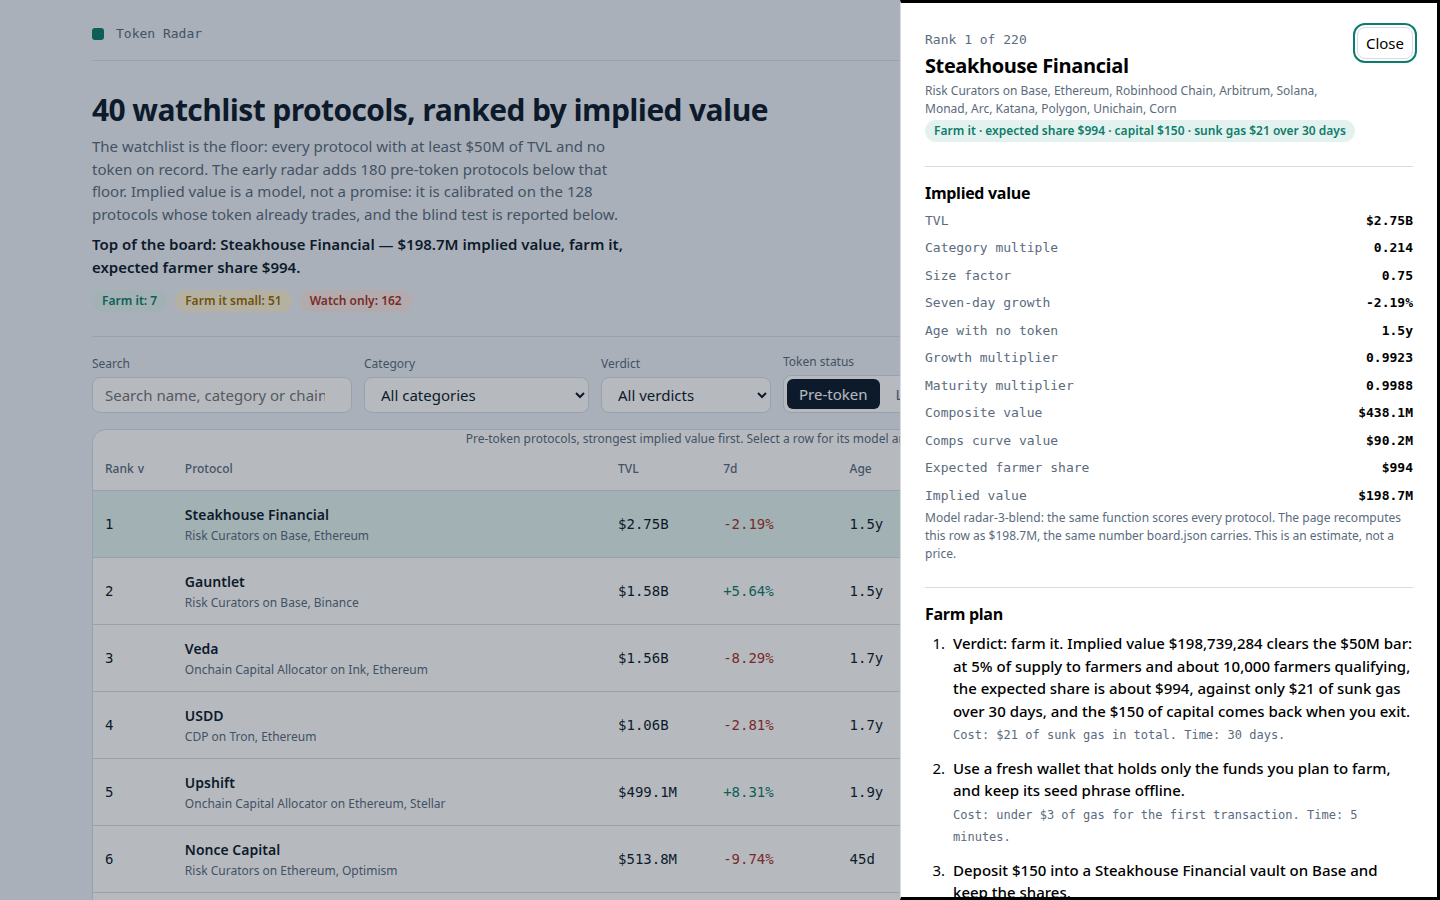
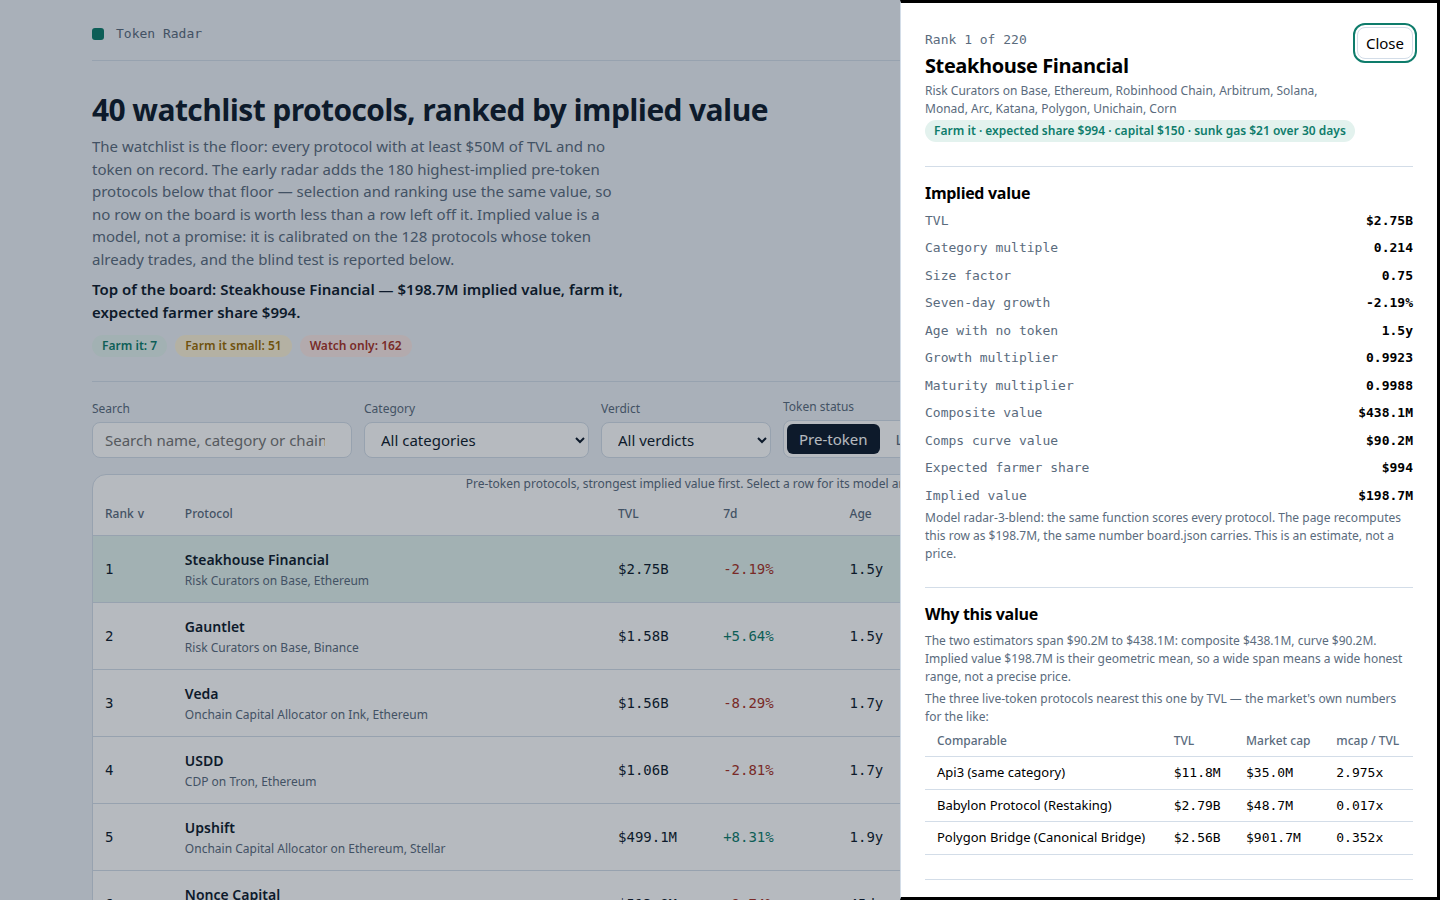
token-radar-01 v4: select early rows by implied value, per-row comps + estimator range, strictest calibration note
Model unchanged (radar-3-blend): blend/growth sweeps, chain-count factor,
curve-with-category-intercepts and expected-value re-ranking all failed
the both-splits-plus-CV rule. Early radar now takes the 180 highest-implied
pre-token protocols below the floor instead of the top 180 by TVL (5 bottom
rows swap); each row carries its 3 nearest live-token comparables and the
two estimators' span; calibration note reports the fully-honest blind test
(curve and multiples both refit per half): slug blend 1.190, time 1.418.

diff --git a/lib/model.ts b/lib/model.ts
@@ -20,19 +20,23 @@
 // other half it never saw (median absolute log error; typical miss
 // in parentheses). These are each estimator's own errors, not the
 // curve's error standing in for the model:
-//   half by slug:    A 1.164 (3.20x)   B 1.067 (2.91x)   blend 1.058 (2.88x)
-//   time split:      A 1.493 (4.45x)   B 1.461 (4.31x)   blend 1.511 (4.53x)
+//   half by slug:    A 1.398 (4.05x)   B 1.067 (2.91x)   blend 1.190 (3.29x)
+//   time split:      A 1.528 (4.61x)   B 1.461 (4.31x)   blend 1.418 (4.13x)
 //   (oldest half trains, newest half tests: the honest test for a
 //   radar, since a launch is always in the future)
 // Correction (v3): v2's note reported the time split as A 1.375 /
 // B 1.444 / blend 1.335, but that run had the halves swapped — it
 // trained on the newest half and tested on the oldest half plus the
-// undated protocols, which is not the honest test. The numbers above
-// are the honest split, re-run from the same protocol. The model
-// itself is unchanged: on the slug split the blend beats both
-// parents, on the honest time split it sits within 0.05 of each
-// parent, and no single estimator wins on both splits, so the
-// 50/50 blend stays the shipped model:
+// undated protocols, which is not the honest test.
+// Correction (v4): the numbers above are stricter still than v3's
+// (slug 1.202 / time 1.511). v3's refit re-fitted only the curve per
+// half and kept the shipped category multiples, so A still peeked at
+// the test half's multiples. v4 re-fits EVERYTHING per half — curve
+// and category multiples (shrunk medians, k=5) — so no test protocol
+// contributes to any fitted number. Under that protocol the blend
+// beats both parents on the time split and sits between them on the
+// slug split, within 0.13 of the curve; no single estimator wins on
+// both splits, so the 50/50 blend stays the shipped model:
 //   implied = exp(0.5 x ln(A) + 0.5 x ln(B))
 // Category dummies and a full multivariate fit were tried and
 // rejected: with 64 training comps they overfit and score worse on
@@ -175,6 +179,10 @@ export interface Calibration {
   blend_time_reported_error: number;
   v1_time_reported_error: number;
   curve_time_reported_error: number;
+  /** What v3's note reported (curve re-fitted per half, shipped
+   * multiples kept — A still peeked at the test half's multiples):
+   * slug blend 1.202, time blend 1.511. Record only, not a result. */
+  blend_slug_reported_error: number;
 }
 
 export const CALIBRATION: Calibration = {
@@ -183,15 +191,20 @@ export const CALIBRATION: Calibration = {
   log_slope_full: 0.52,
   log_slope_half_train: 0.64,
   held_out_median_abs_log_error: 1.07,
-  blend_slug_error: 1.058,
-  blend_time_error: 1.511,
-  v1_slug_error: 1.164,
-  v1_time_error: 1.493,
+  /** v4 protocol (strictest): curve AND category multiples re-fitted on
+   * each train half only (shrunk medians, k=5); the test half is never
+   * peeked at. Slug A 1.398 / B 1.067 / blend 1.190; time A 1.528 /
+   * B 1.461 / blend 1.418. */
+  blend_slug_error: 1.19,
+  blend_time_error: 1.418,
+  v1_slug_error: 1.398,
+  v1_time_error: 1.528,
   curve_slug_error: 1.067,
   curve_time_error: 1.461,
-  blend_time_reported_error: 1.335,
-  v1_time_reported_error: 1.375,
-  curve_time_reported_error: 1.444,
+  blend_time_reported_error: 1.511,
+  v1_time_reported_error: 1.493,
+  curve_time_reported_error: 1.461,
+  blend_slug_reported_error: 1.202,
 };
 
 /** A farm step: action, what it costs, how long it takes. */
@@ -219,6 +232,16 @@ export interface BoardRow {
   implied_value_usd: number;
   curve_value_usd: number;
   composite_value_usd: number;
+  /** The two estimators' span: [min(composite, curve), max(composite,
+   * curve)]. Implied is their geometric mean, so the range is the
+   * honest width of this row's valuation, not a second estimate. */
+  value_range_usd: [number, number];
+  /** The three live-token protocols this row's valuation leans on:
+   * same category first (nearest by TVL), filled with the nearest
+   * live comps of any category when the category has fewer than
+   * three. Each carries the market's own mcap/TVL ratio, so the
+   * reader can see what the market actually paid for the like. */
+  comps: NearestComp[];
   expected_share_usd: number;
   verdict: 'farm' | 'small' | 'watch';
   capital_usd: number;
@@ -233,6 +256,16 @@ export interface BoardRow {
     age_days: number | null;
   };
   farm_steps: string[];
+}
+
+/** A live-token comparable: the market's own numbers for one protocol. */
+export interface NearestComp {
+  name: string;
+  category: string | null;
+  tvl_usd: number;
+  mcap_usd: number;
+  /** mcap_usd / tvl_usd, rounded to 3 decimals. */
+  ratio: number;
 }
 
 /** The dashboard's compact view of one row. */
@@ -250,6 +283,8 @@ export interface RadarRow {
   implied_value_usd: number;
   curve_value_usd: number;
   composite_value_usd: number;
+  value_range_usd: [number, number];
+  comps: NearestComp[];
   expected_share_usd: number;
   verdict: 'farm' | 'small' | 'watch';
   capital_usd: number;
@@ -605,6 +640,8 @@ export function radarRow(row: BoardRow): RadarRow {
     implied_value_usd: row.implied_value_usd,
     curve_value_usd: row.curve_value_usd,
     composite_value_usd: row.composite_value_usd,
+    value_range_usd: row.value_range_usd,
+    comps: row.comps,
     expected_share_usd: row.expected_share_usd,
     verdict: row.verdict,
     capital_usd: row.capital_usd,
@@ -618,6 +655,26 @@ export function radarRow(row: BoardRow): RadarRow {
   };
 }
 
+/** The three live-token comparables nearest to one protocol: same
+ * category first (nearest by TVL), filled with the nearest live comps
+ * of any category when the category has fewer than three. Pure
+ * snapshot arithmetic — no judgement, no hand-picking. */
+export function nearestComps(p: SnapshotProtocol, snapshot: Snapshot): NearestComp[] {
+  const live = snapshot.protocols.filter((q) => (q.mcap_usd ?? 0) > 0 && q.slug !== p.slug);
+  const byDistance = (a: SnapshotProtocol, b: SnapshotProtocol): number =>
+    Math.abs(Math.log(Math.max(a.tvl_usd, 1)) - Math.log(Math.max(p.tvl_usd, 1))) -
+    Math.abs(Math.log(Math.max(b.tvl_usd, 1)) - Math.log(Math.max(p.tvl_usd, 1)));
+  const same = live.filter((q) => q.category === p.category).sort(byDistance);
+  const rest = live.filter((q) => q.category !== p.category).sort(byDistance);
+  return [...same, ...rest].slice(0, 3).map((q) => ({
+    name: q.name,
+    category: q.category,
+    tvl_usd: q.tvl_usd,
+    mcap_usd: q.mcap_usd ?? 0,
+    ratio: Math.round(((q.mcap_usd ?? 0) / Math.max(q.tvl_usd, 1)) * 1000) / 1000,
+  }));
+}
+
 /** The protocols the board ranks, strongest first, ranks 1..n. */
 export function buildBoard(snapshot: Snapshot, model: ModelConstants = MODEL): BoardRow[] {
   const index = bySlug(snapshot.protocols);
@@ -627,12 +684,16 @@ export function buildBoard(snapshot: Snapshot, model: ModelConstants = MODEL): B
     const p = index.get(slug);
     if (p !== undefined) chosen.set(slug, p);
   }
-  // Early radar: pre-token protocols below the floor, by TVL, capped.
+  // Early radar: the 180 highest-implied pre-token protocols below the
+  // floor. Selection and ranking use the same value (v4: v2/v3 selected
+  // by TVL, which let five low-multiple rows in ahead of five rows the
+  // board's own ranking values more). Score first, then take the top 180.
   const early = snapshot.protocols
     .filter((p) => !chosen.has(p.slug) && isRankable(p) && p.tvl_usd < snapshot.floor_usd)
-    .sort((a, b) => b.tvl_usd - a.tvl_usd || (a.slug < b.slug ? -1 : a.slug > b.slug ? 1 : 0))
+    .map((p) => ({ p, implied: impliedValue(p, snapshot.as_of, model).implied }))
+    .sort((a, b) => b.implied - a.implied || (a.p.slug < b.p.slug ? -1 : a.p.slug > b.p.slug ? 1 : 0))
     .slice(0, EARLY_ROWS);
-  for (const p of early) chosen.set(p.slug, p);
+  for (const e of early) chosen.set(e.p.slug, e.p);
 
   const scored = [...chosen.values()].map((p) => {
     const v = impliedValue(p, snapshot.as_of, model);
@@ -663,6 +724,8 @@ export function buildBoard(snapshot: Snapshot, model: ModelConstants = MODEL): B
       implied_value_usd: s.implied,
       curve_value_usd: s.curve,
       composite_value_usd: s.composite,
+      value_range_usd: [Math.min(s.composite, s.curve), Math.max(s.composite, s.curve)],
+      comps: nearestComps(s.p, snapshot),
       expected_share_usd: expectedShareUsd(s.implied),
       verdict,
       capital_usd: capital,

diff --git a/dashboard/app.js b/dashboard/app.js
@@ -139,7 +139,7 @@
     return el('section', { class: 'lede' },
       el('div', null,
         el('h1', { text: DATA.watchlist_size + ' watchlist protocols, ranked by implied value' }),
-        el('p', { text: 'The watchlist is the floor: every protocol with at least $' + Math.round(DATA.floor_usd / 1e6) + 'M of TVL and no token on record. The early radar adds ' + DATA.early_size + ' pre-token protocols below that floor. Implied value is a model, not a promise: it is calibrated on the 128 protocols whose token already trades, and the blind test is reported below.' }),
+        el('p', { text: 'The watchlist is the floor: every protocol with at least $' + Math.round(DATA.floor_usd / 1e6) + 'M of TVL and no token on record. The early radar adds the ' + DATA.early_size + ' highest-implied pre-token protocols below that floor — selection and ranking use the same value, so no row on the board is worth less than a row left off it. Implied value is a model, not a promise: it is calibrated on the 128 protocols whose token already trades, and the blind test is reported below.' }),
         el('p', { class: 'top-pick', text: 'Top of the board: ' + top.name + ' — ' + fmtUsd(top.implied_value_usd) + ' implied value, ' + verdictLabel(top.verdict).toLowerCase() + ', expected farmer share ' + fmtUsd(top.expected_share_usd) + '.' }),
         el('div', { class: 'verdicts' },
           el('span', { class: 'pill farm', text: 'Farm it: ' + v.farm }),
@@ -291,7 +291,7 @@
         el('thead', null, el('tr', null, el('th', { scope: 'col', text: 'Category' }), el('th', { scope: 'col', text: 'Multiple (shrunk median)' }))),
         el('tbody', null, compRows)
       ),
-      el('p', { class: 'sub', text: 'Global median 0.214. Each multiple is its category median, shrunk toward the global by n/(n+5) and capped to 0.05..0.80. Blind tests, each estimator fitted on one half and tested on the other half it never saw (median absolute log error; typical miss in parentheses) — these are each estimator\'s own errors: half by slug, composite ' + c.v1_slug_error + ' (3.20x), curve ' + c.curve_slug_error + ' (2.91x), blend ' + c.blend_slug_error + ' (2.88x); time split (oldest half trains, newest half tests), composite ' + c.v1_time_error + ' (4.45x), curve ' + c.curve_time_error + ' (4.31x), blend ' + c.blend_time_error + ' (4.53x). On the slug split the blend beats both parents; on the time split it sits within 0.05 of each parent, and no single estimator wins on both splits, so the 50/50 blend stays the shipped model. Correction: v2\'s note reported the time split as composite ' + c.v1_time_reported_error + ', curve ' + c.curve_time_reported_error + ', blend ' + c.blend_time_reported_error + ' — that run had the halves swapped (newest half trained, oldest half plus the undated protocols tested). The numbers above are the honest split, re-run from the same protocol. The curve alone on half the comps has slope ' + c.log_slope_half_train + ' and held-out error ' + c.held_out_median_abs_log_error + ' (about 2.9x). Category dummies and a full multivariate fit were tried and rejected: they overfit on 64 training comps and score worse on both splits. The curve is a guide, not a price.' }),
+      el('p', { class: 'sub', text: 'Global median 0.214. Each multiple is its category median, shrunk toward the global by n/(n+5) and capped to 0.05..0.80. Blind tests, each estimator fitted on one half and tested on the other half it never saw (median absolute log error; typical miss in parentheses) — these are each estimator\'s own errors: half by slug, composite ' + c.v1_slug_error + ' (4.05x), curve ' + c.curve_slug_error + ' (2.91x), blend ' + c.blend_slug_error + ' (3.29x); time split (oldest half trains, newest half tests), composite ' + c.v1_time_error + ' (4.61x), curve ' + c.curve_time_error + ' (4.31x), blend ' + c.blend_time_error + ' (4.13x). On the time split the blend beats both parents; on the slug split it sits between them, within 0.13 of the curve, and no single estimator wins on both splits, so the 50/50 blend stays the shipped model. Correction: v2\'s note reported the time split as composite 1.375, curve 1.444, blend 1.335 — that run had the halves swapped (newest half trained, oldest half plus the undated protocols tested). v3\'s note reported slug blend ' + c.blend_slug_reported_error + ' and time split composite ' + c.v1_time_reported_error + ', curve ' + c.curve_time_reported_error + ', blend ' + c.blend_time_reported_error + ' — that run re-fitted only the curve per half and kept the shipped category multiples, so the composite still peeked at the test half. The numbers above are the strictest protocol yet: curve and multiples both re-fitted on each train half only, so no test protocol contributes to any fitted number. The curve alone on half the comps has slope ' + c.log_slope_half_train + ' and held-out error ' + c.held_out_median_abs_log_error + ' (about 2.9x). Category dummies and a full multivariate fit were tried and rejected: they overfit on 64 training comps and score worse on both splits. The curve is a guide, not a price.' }),
       el('p', { class: 'sub', text: 'Farm verdicts are net economics, not slogans: capital is recoverable, only gas is sunk (setup $4-8, $2 a week, $3 to claim). The expected farmer share assumes 5% of the token supply goes to farmers and about 10,000 farmers qualify, so one share is implied value x 0.05 / 10,000. Farm it means the share is at least $250 (implied value at least $50M); farm it small means at least $50 (implied value at least $10M) and a $25 test first; watch only means below $50 and no capital deployed yet.' })
     );
   }
@@ -331,6 +331,22 @@
         el('div', null, el('span', { text: 'Implied value' }), el('b', { class: 'num', text: fmtUsd(row.implied_value_usd) }))
       ),
       el('p', { class: 'sub', text: 'Model ' + DATA.model_version + ': the same function scores every protocol. The page recomputes this row as ' + fmtUsd(recomputed) + (recomputed === row.implied_value_usd ? ', the same number board.json carries.' : ', which differs from the board: the data would be stale.') + ' This is an estimate, not a price.' })
+    ));
+    dialog.appendChild(el('section', { class: 'detail-section' },
+      el('h3', { text: 'Why this value' }),
+      el('p', { class: 'sub', text: 'The two estimators span ' + fmtUsd(row.value_range_usd[0]) + ' to ' + fmtUsd(row.value_range_usd[1]) + ': composite ' + fmtUsd(row.composite_value_usd) + ', curve ' + fmtUsd(row.curve_value_usd) + '. Implied value ' + fmtUsd(row.implied_value_usd) + ' is their geometric mean, so a wide span means a wide honest range, not a precise price.' }),
+      el('p', { class: 'sub', text: 'The three live-token protocols nearest this one by TVL — the market\'s own numbers for the like:' }),
+      el('table', { class: 'comps' },
+        el('thead', null, el('tr', null, el('th', { scope: 'col', text: 'Comparable' }), el('th', { scope: 'col', text: 'TVL' }), el('th', { scope: 'col', text: 'Market cap' }), el('th', { scope: 'col', text: 'mcap / TVL' }))),
+        el('tbody', null, (row.comps || []).map(function (cp) {
+          return el('tr', null,
+            el('td', { text: cp.name + (cp.category === row.category ? ' (same category)' : ' (' + (cp.category || 'Other') + ')') }),
+            el('td', { class: 'num', text: fmtUsd(cp.tvl_usd) }),
+            el('td', { class: 'num', text: fmtUsd(cp.mcap_usd) }),
+            el('td', { class: 'num', text: cp.ratio.toFixed(3) + 'x' })
+          );
+        }))
+      )
     ));
     dialog.appendChild(el('section', { class: 'detail-section' },
       el('h3', { text: 'Farm plan' }),

diff --git a/main.ts b/main.ts
@@ -3,6 +3,15 @@
 // blind-test time-split numbers the method note reports (v2's note had
 // the halves swapped) and makes the board's verdicts easier to scan
 // (expected farmer share under each verdict, top pick in the lede).
+// v4: the scoring model is still unchanged — every new estimator tried
+// (blend-weight and growth-weight sweeps, chain-count factor, curve
+// with category intercepts, expected-value re-ranking) failed the
+// both-splits-plus-CV rule, so the 50/50 blend stands. What v4 does
+// change: the early radar is selected by implied value instead of TVL
+// (selection and ranking now use the same value), each row carries its
+// three nearest live-token comparables and the two estimators' span,
+// and the calibration note reports the strictest blind-test protocol
+// yet (curve and category multiples both re-fitted per half).
 //
 // Reads the sealed snapshot from /input/snapshot.json (or --input
 // <file|dir>), scores every pre-token protocol with the comparables
